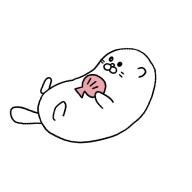
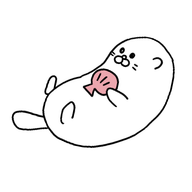
fix: Android PWA 네이티브 스플래시를 물결+수달 화면으로 통일
Chrome 설치 후 첫 화면이 icon-512 로고만 보이던 문제를 pwa-splash-512 합성 아이콘으로 manifest에 연결해 in-app 스플래시와 맞춘다.

Changed region(s): [[0.0312, 0.1875, 0.9375, 0.7812], [0.7188, 0.5938, 0.75, 0.625], [0.6562, 0.5, 0.6875, 0.5312]]

diff --git a/index.html b/index.html
@@ -51,7 +51,7 @@
       }
     </script>
     <!-- manifest·favicon·og:image 캐시: v= 쿼리 변경 시 검색·미리보기가 새 로고를 받음 -->
-    <link rel="manifest" href="/manifest.json?v=money-is-time-logo-1" />
+    <link rel="manifest" href="/manifest.json?v=money-is-time-logo-2" />
     <link rel="preload" href="/fonts/LP-SejongGeulggot.otf" as="font" type="font/otf" crossorigin />
     <link rel="preload" href="/toolbaricons/splash/splash-pattern-wave.png" as="image" />
     <link rel="preload" href="/toolbaricons/splash/splash-mascot.png" as="image" />

diff --git a/public/sw.js b/public/sw.js
@@ -1,6 +1,6 @@
 /* PWA 서비스 워커 — 앱 설치·오프라인 */
 /** 번들·아이콘 등 캐시 버전 (전략 바꿀 때만 올리면 이전 캐시 정리됨) */
-const ASSET_CACHE = "tip-assets-v17";
+const ASSET_CACHE = "tip-assets-v18";
 /** HTML 셸 캐시 — 홈 화면에서 열 때 즉시 표시용 */
 const HTML_CACHE = "tip-html-v4";
 
@@ -9,6 +9,7 @@ const PWA_INSTALL_CORE_PATHS = [
   "/manifest.json",
   "/icon-192.png",
   "/icon-512.png",
+  "/pwa-splash-512.png",
   "/icon-maskable-192.png",
   "/icon-maskable-512.png",
   "/apple-touch-icon.png",
